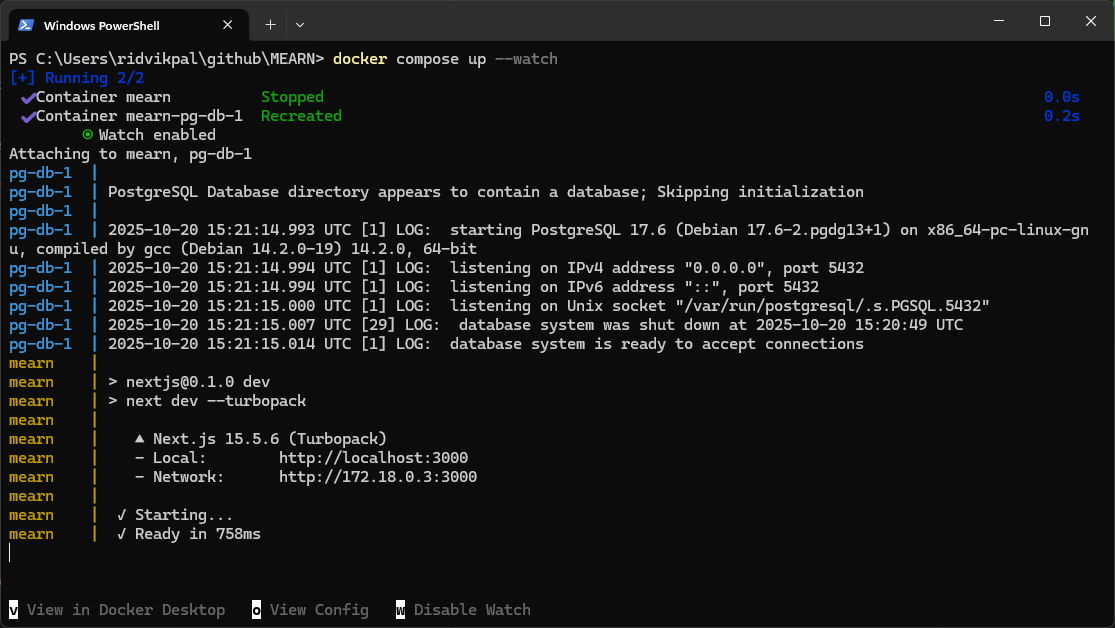
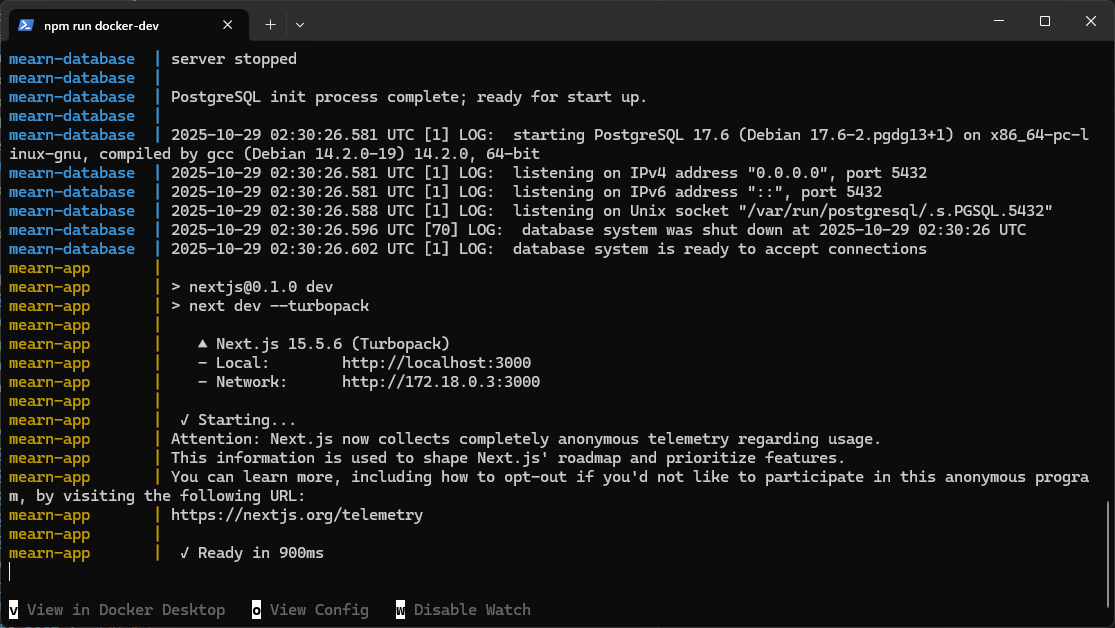
Updated documentation to use new package.json scripts. Also setup package.json npm run docker-dev to only run app and database, not test.

diff --git a/README.md b/README.md
@@ -12,16 +12,24 @@ This project utilizes [GitHub Projects](https://github.com/users/Niraaj-Rajaling
 
 1. Make sure you have [node.js](https://nodejs.org/en/download) and [docker](https://www.docker.com/get-started/) installed on your machine.
 2. Navigate to this repo's directory and run `npm install`. This will install all dependencies locally for you to get code writing assistance in your IDE (e.g., VSCode Intellisense)
-3. Run `docker compose up --watch` to actually run the web app in development mode at http://localhost:3000. Hot reload is enabled with the `--watch` command so any changes to code will be reflected in the web app on file save.
-4. If you modify your node dependencies, simply cancel (Ctrl+C a few times) and restart the `docker compose up --watch` command to reload your dependencies.
+3. Run `npm run docker-dev` to actually run the web app in development mode at http://localhost:3000. Hot reload is enabled with the `--watch` command so any changes to code will be reflected in the web app on file save.
+4. If you modify your node dependencies, simply cancel (Ctrl+C a few times) and restart the `npm run docker-dev` command to reload your dependencies.
 
 ### Postgres database
 
 Note that this development environment uses a postgres database that works out of the box:
 
-- Data is persisted across sessions in the `mearn-database-data` docker volume. If you want to clear your database (e.g., if you want to reseed your database with changes to the `init_schema.sql` file), simply delete the `mearn-database` docker container and `mearn-database-data` docker volume. Then rerun the `docker compose up --watch` command and you should see the changes. Of course, you can also manually run the SQL script using `psql` in the container shell.
+- Data is persisted across sessions in the `mearn-database-data` docker volume. If you want to clear your database (e.g., if you want to reseed your database with changes to the `init_schema.sql` file), simply run `npm run docker-clean` and then `npm run docker-dev` again to see your changes.
 - The postgres database username is `postgres` and the password is `mearn-app-db`.
-- You should be able to access the database using any GUI RDBMS software at `localhost:5432` when the app is running.
+- You should be able to access the database using any GUI RDBMS software at `localhost:5432` when the database is running.
+
+### Testing
+
+Tests can be run using `npm run docker-test`. Testing utilizes a separate docker database titled `mearn-database-test`, which is a replica of the above `mearn-database`. All of the above applies, but the docker volume is `mearn-database-test-data` instead.
+
+### Troubleshooting
+
+If you have any trouble with the docker local development setup, first try running `npm run docker-clean` and then `npm run docker-dev` to see if that fixes it!
 
 ## Deploy on Vercel
 
